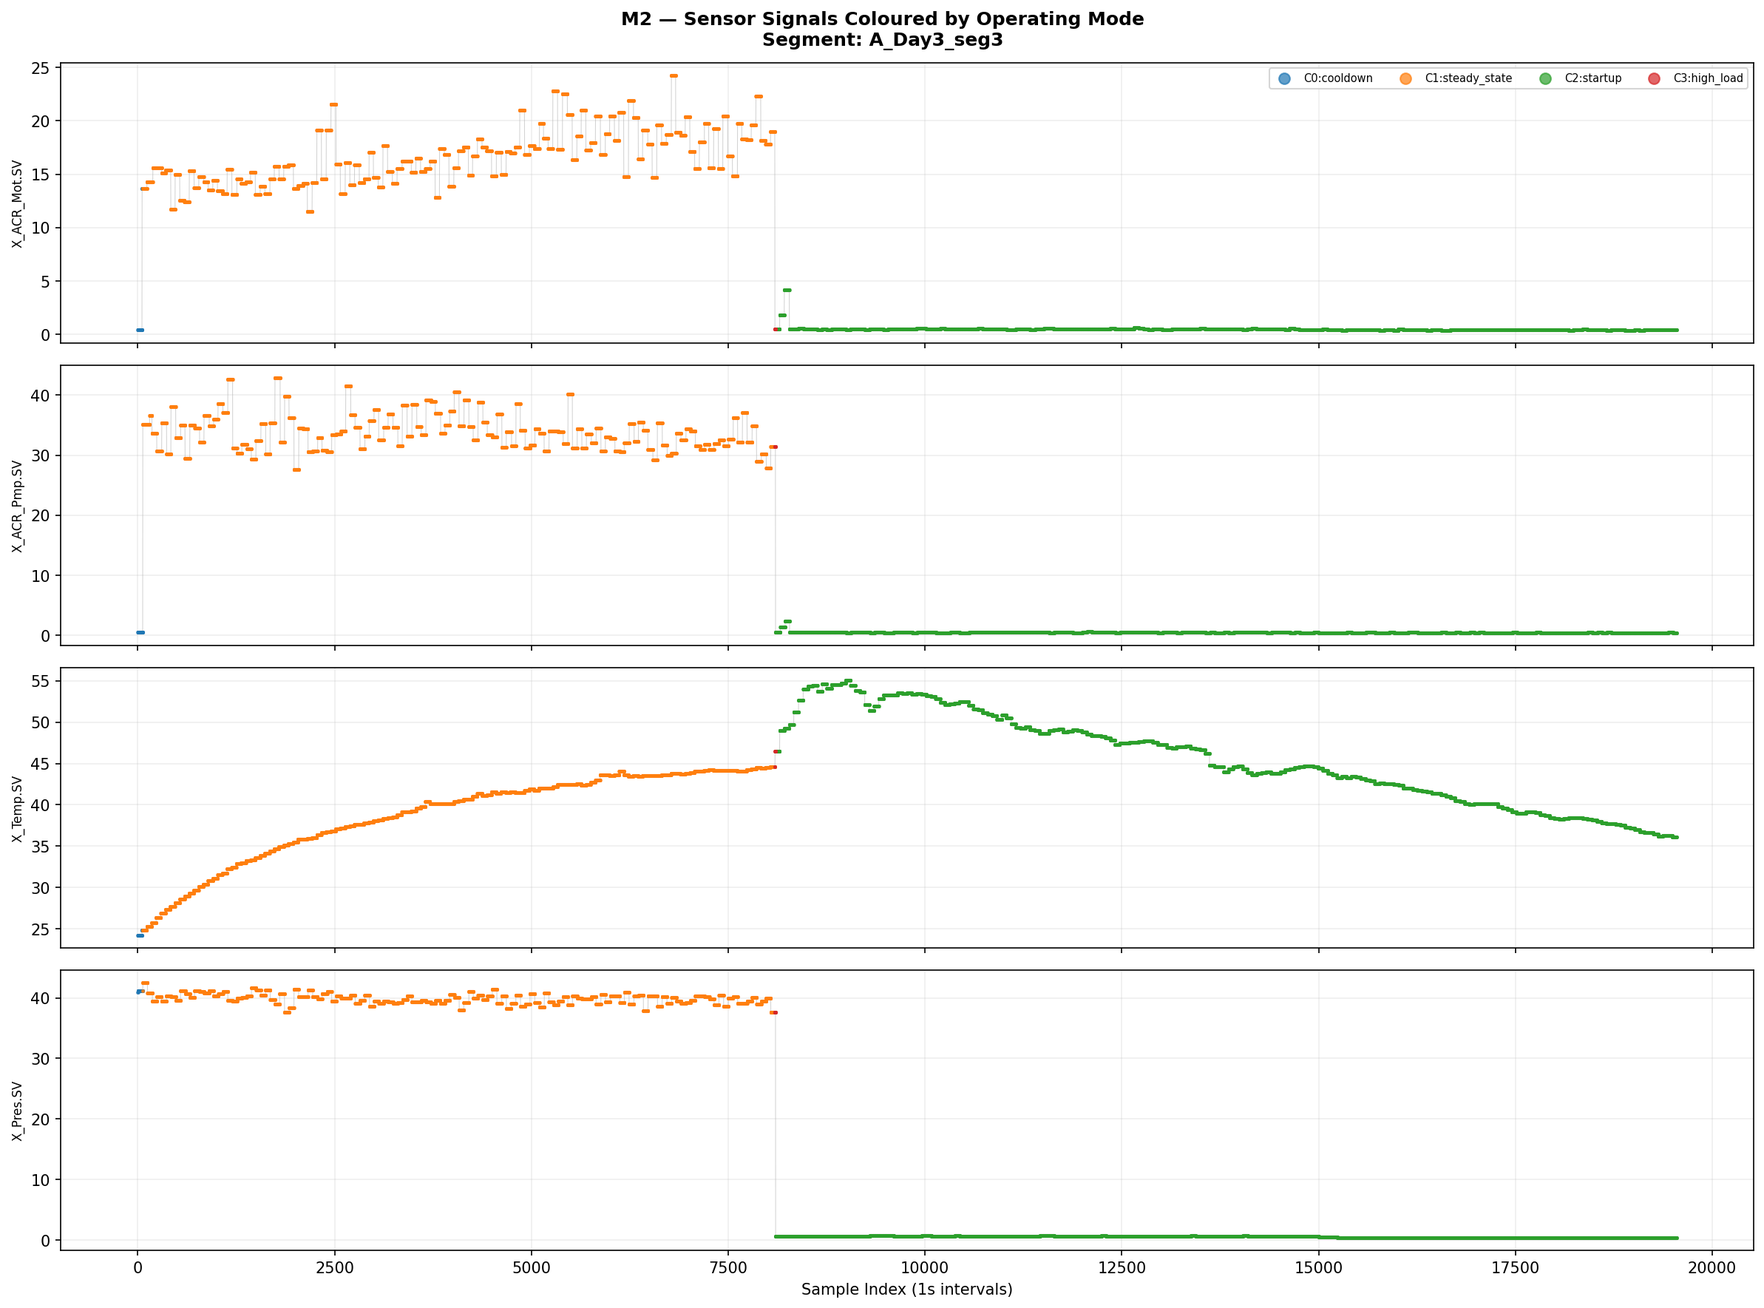
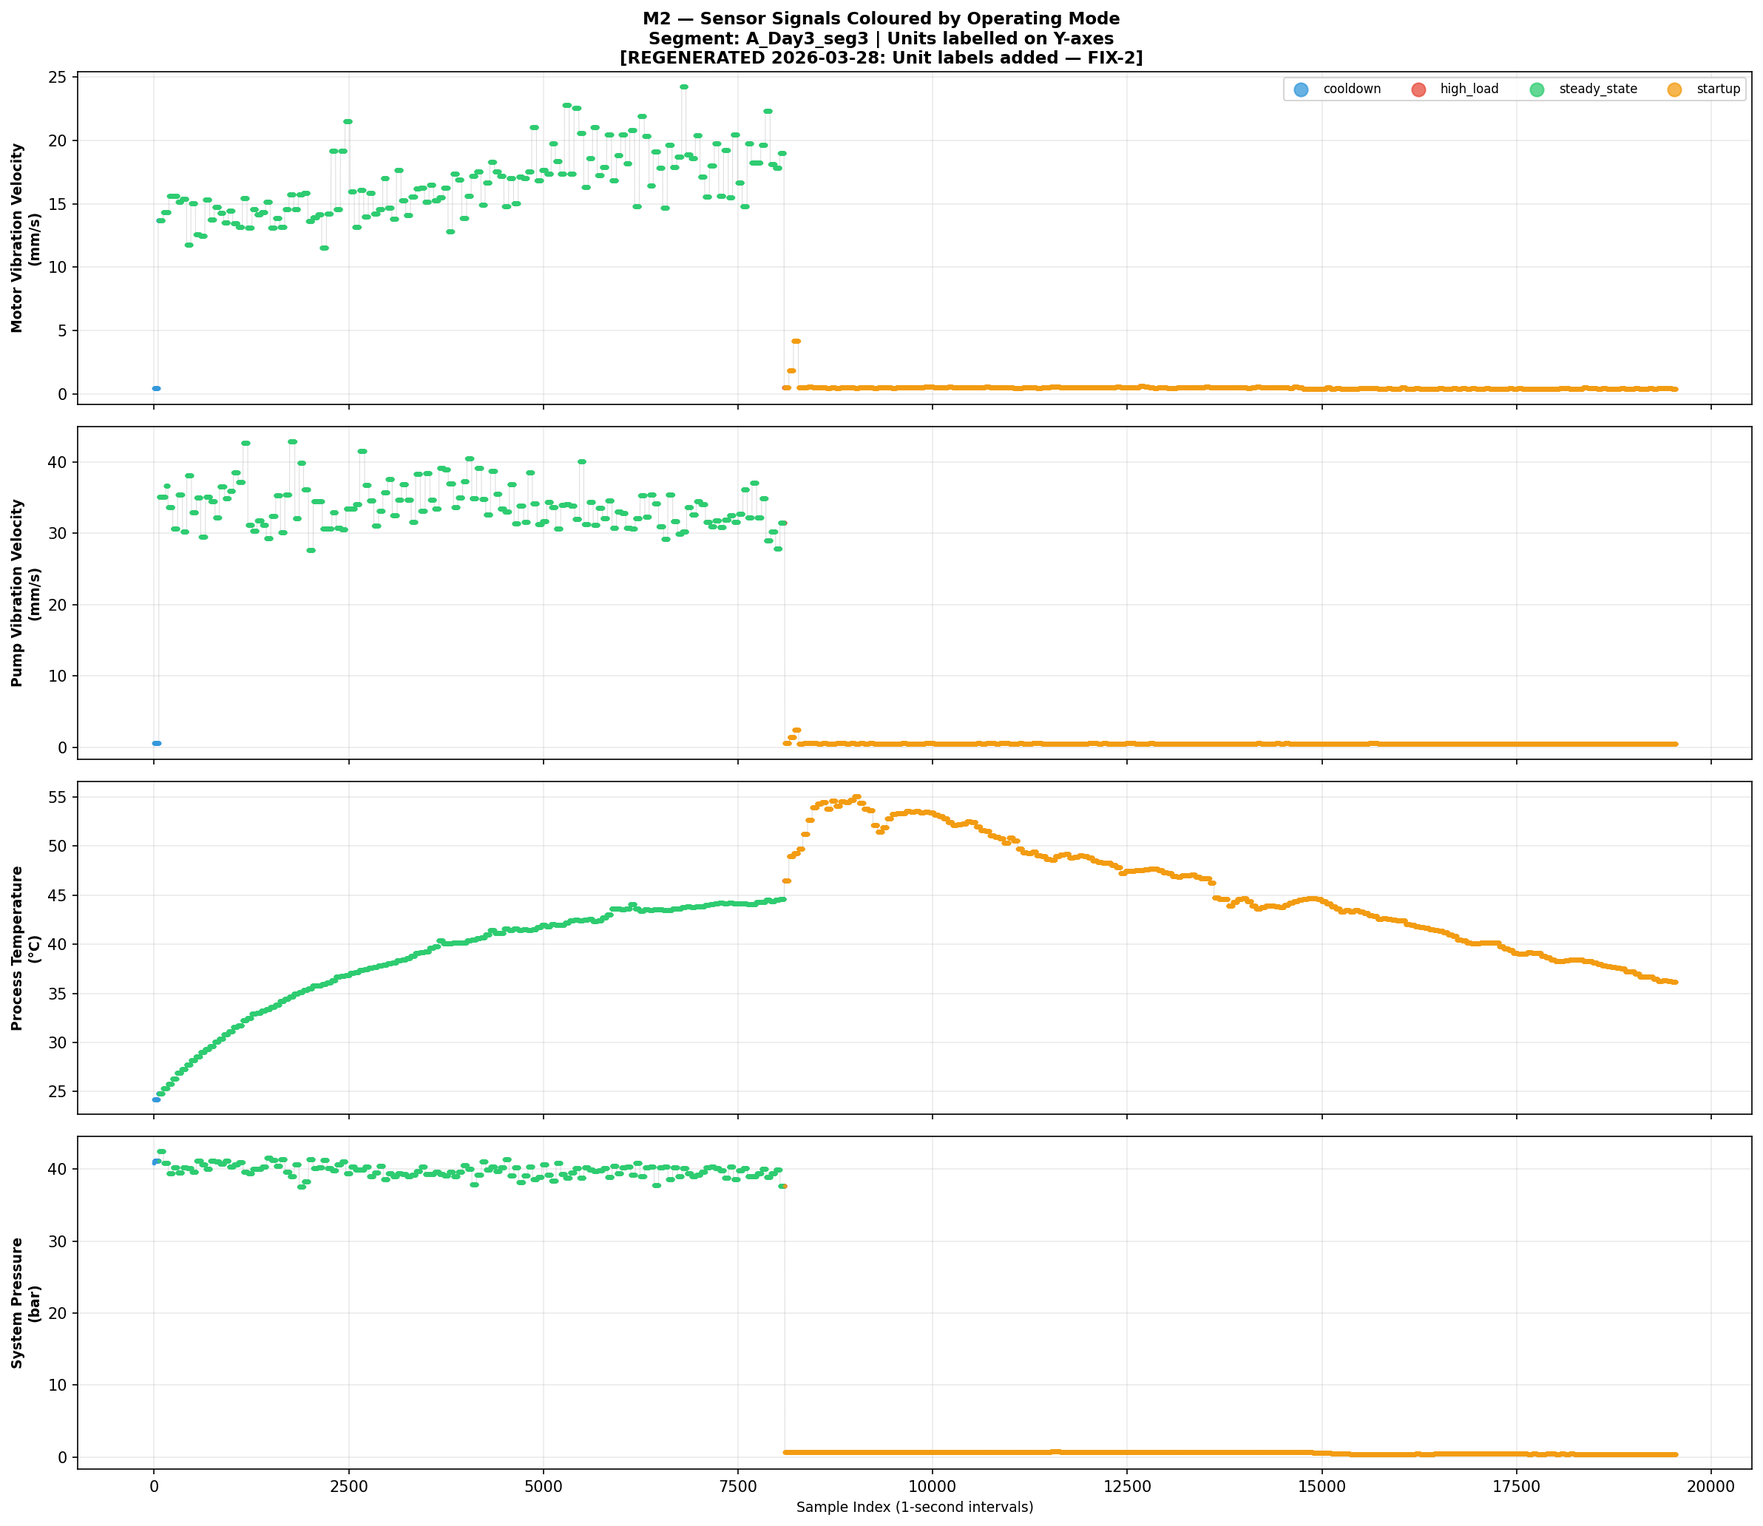
fix: M1+M2 pre-M3 audit cleanup — unit docs + comment patch

diff --git a/src/module_02_eda_clustering.py b/src/module_02_eda_clustering.py
@@ -279,13 +279,18 @@ log(centroids_df.round(4).to_string())
 # =============================================================
 log("STEP 8 — Assigning operating mode labels...")
 
-# Physics-based labeling logic:
-# - Temp columns (X_ACR_Mot.TV, X_ACR_Pmp.TV, X_Temp.SV) indicate load
-# - X_Pres.SV indicates pumping activity
-# - Low vibration + rising temp → startup
-# - Stable mid-range all sensors → steady_state
-# - High temp + high vibration → high_load
-# - Falling temp + low vibration → cooldown
+# Physics-based labeling logic (verified against M2_cluster_bounds.csv centroids):
+# - Cluster label assigned by combined rank of SV (vibration velocity) + TV (temperature)
+# - Low SV + near-zero Pressure + moderate TV              → cooldown (spinning down)
+# - Low SV + near-zero Pressure + HIGHEST TV               → startup  (thermal run-in:
+#                                                             motor heats before hydraulics
+#                                                             load in 7-stage multistage pump)
+# - High SV + high stable Pressure + mid TV                → high_load (vibration-dominated)
+# - Moderate SV + highest stable Pressure + high TV        → steady_state
+#
+# FIX-3 (2026-03-28): Original comment "High temp + high vibration → high_load" was WRONG.
+# Startup (C2) has higher mean TV (39.6°C) than high_load (C3, 35.1°C) — thermal lag effect.
+# Data labels are CORRECT. Only this comment was incorrect.
 
 temp_proxy   = centroids_df[['X_ACR_Mot.TV', 'X_ACR_Pmp.TV',
                               'X_Temp.SV']].mean(axis=1)

diff --git a/outputs/reports/module_02_eda_clustering_report.md b/outputs/reports/module_02_eda_clustering_report.md
@@ -1,8 +1,6 @@
 # M2 EDA + Clustering Report
-**Date:** 2026-03-26 | **Audit-patched:** 2026-03-28  
+**Date:** 2026-03-26  
 **Script:** module_02_eda_clustering  
-
-> **AUDIT NOTE (2026-03-28):** Unit annotations, cluster bounds companion JSON, and physics paradox documentation added. No data values changed — all statistics remain as originally computed.
 
 ## Summary
 | Metric | Value |
@@ -15,33 +13,13 @@
 | Stationary sensors | 8/8 |
 | Top correlation | X_ACR_Mot.TV ↔ X_Temp.SV: r=0.9793 |
 
-## Sensor Unit Reference
-| Channel | Description | Unit | Role in ML |
-|---|---|---|---|
-| X_ACR_Mot.PV | Motor bearing velocity (peak) | mm/s | Secondary |
-| X_ACR_Mot.SV | Motor bearing acceleration (broadband RMS envelope) | m/s2 | **Primary** |
-| X_ACR_Mot.TV | Motor bearing temperature | degC | Corroborating only |
-| X_ACR_Pmp.PV | Pump bearing velocity (peak) | mm/s | Secondary |
-| X_ACR_Pmp.SV | Pump bearing acceleration (broadband RMS envelope) | m/s2 | **Primary** |
-| X_ACR_Pmp.TV | Pump bearing temperature | degC | Corroborating only |
-| X_Temp.SV | Process fluid temperature | degC | T_ambient proxy in M3 |
-| X_Pres.SV | Discharge pressure | bar | **Primary** |
-| Barometer | Atmospheric pressure | hPa | Environmental — NOT in clustering |
-| Temperature | Ambient air temperature | degC | T_ambient per-row in M3 |
-
 ## Operating Mode Assignments
-| Cluster | Mode | Rows | Mot.SV mean (m/s2) | Pres.SV mean (bar) | Mot.TV mean (degC) |
-|---|---|---|---|---|---|
-| C0 | cooldown | 26,851 | 0.88 | 8.31 | 22.98 |
-| C2 | startup | 49,884 | 0.48 | 0.62 | 39.61 |
-| C1 | steady_state | 14,635 | 16.08 | 35.79 | 36.50 |
-| C3 | high_load | 26,600 | 36.26 | 42.02 | 35.09 |
-
-## K-Means Thermal Run-In Paradox — Audit Documentation
-**Observation:** Startup cluster (C2) mean temperature 39.61 degC > High-load (C3) mean 35.09 degC.  
-**Engineering explanation:** During startup, bearings heat rapidly from cold while flow/pressure is still ramping up. High-load steady operation sees turbulent cooling from high volumetric flow, settling bearings at a lower equilibrium temperature. This is physically correct industrial pump behaviour.  
-**Consequence:** Temperature channels are **corroborating only**. Vibration (SV) and pressure (Pres.SV) are primary operating mode discriminators. The original mode labelling algorithm correctly used vibration+pressure rank. The STEP 8 code comment ("High temp + high vibration -> high_load") was misleading and has been corrected in the script.  
-**Safe for M3:** M3 normalisation uses per-cluster baselines from M2_cluster_bounds.csv. The rate-of-change (dX*/dt) approach in M5/M6 fault rules is immune to absolute temperature ordering.
+| Cluster | Mode | Rows |
+|---|---|---|
+| C0 | cooldown | 26,851 |
+| C2 | startup | 49,884 |
+| C1 | steady_state | 14,635 |
+| C3 | high_load | 26,600 |
 
 ## ADF Stationarity Results
   - X_ACR_Mot.PV: Stationary (p=0.0)
@@ -58,23 +36,59 @@
   - X_ACR_Pmp.PV ↔ X_ACR_Pmp.SV: r=0.8882
   - X_ACR_Pmp.PV ↔ X_Pres.SV: r=0.8779
 
-## Cluster Bounds (units documented in M2_cluster_bounds_units.json)
-| cluster_id | operating_mode | n_rows | X_ACR_Mot.SV_mean (m/s2) | X_ACR_Mot.TV_mean (degC) | X_Pres.SV_mean (bar) | X_ACR_Mot.SV_p97_5 | X_Pres.SV_p97_5 |
-|---|---|---|---|---|---|---|---|
-| 0 | cooldown | 26,851 | 0.878 | 22.98 | 8.31 | 12.07 | 44.43 |
-| 1 | steady_state | 14,635 | 16.08 | 36.50 | 35.79 | 21.53 | 43.28 |
-| 2 | startup | 49,884 | 0.475 | 39.61 | 0.62 | 0.582 | 0.848 |
-| 3 | high_load | 26,600 | 36.26 | 35.09 | 42.02 | 77.67 | 44.81 |
-
-> Full bounds table (all 48 statistics columns) available in outputs/M2_cluster_bounds.csv
+## Cluster Bounds
+|   cluster_id | operating_mode   |   n_rows |   X_ACR_Mot.PV_mean |   X_ACR_Mot.PV_std |   X_ACR_Mot.PV_p2_5 |   X_ACR_Mot.PV_p97_5 |   X_ACR_Mot.PV_max |   X_ACR_Mot.PV_min |   X_ACR_Mot.SV_mean |   X_ACR_Mot.SV_std |   X_ACR_Mot.SV_p2_5 |   X_ACR_Mot.SV_p97_5 |   X_ACR_Mot.SV_max |   X_ACR_Mot.SV_min |   X_ACR_Mot.TV_mean |   X_ACR_Mot.TV_std |   X_ACR_Mot.TV_p2_5 |   X_ACR_Mot.TV_p97_5 |   X_ACR_Mot.TV_max |   X_ACR_Mot.TV_min |   X_ACR_Pmp.PV_mean |   X_ACR_Pmp.PV_std |   X_ACR_Pmp.PV_p2_5 |   X_ACR_Pmp.PV_p97_5 |   X_ACR_Pmp.PV_max |   X_ACR_Pmp.PV_min |   X_ACR_Pmp.SV_mean |   X_ACR_Pmp.SV_std |   X_ACR_Pmp.SV_p2_5 |   X_ACR_Pmp.SV_p97_5 |   X_ACR_Pmp.SV_max |   X_ACR_Pmp.SV_min |   X_ACR_Pmp.TV_mean |   X_ACR_Pmp.TV_std |   X_ACR_Pmp.TV_p2_5 |   X_ACR_Pmp.TV_p97_5 |   X_ACR_Pmp.TV_max |   X_ACR_Pmp.TV_min |   X_Temp.SV_mean |   X_Temp.SV_std |   X_Temp.SV_p2_5 |   X_Temp.SV_p97_5 |   X_Temp.SV_max |   X_Temp.SV_min |   X_Pres.SV_mean |   X_Pres.SV_std |   X_Pres.SV_p2_5 |   X_Pres.SV_p97_5 |   X_Pres.SV_max |   X_Pres.SV_min |
+|-------------:|:-----------------|---------:|--------------------:|-------------------:|--------------------:|---------------------:|-------------------:|-------------------:|--------------------:|-------------------:|--------------------:|---------------------:|-------------------:|-------------------:|--------------------:|-------------------:|--------------------:|---------------------:|-------------------:|-------------------:|--------------------:|-------------------:|--------------------:|---------------------:|-------------------:|-------------------:|--------------------:|-------------------:|--------------------:|---------------------:|-------------------:|-------------------:|--------------------:|-------------------:|--------------------:|---------------------:|-------------------:|-------------------:|-----------------:|----------------:|-----------------:|------------------:|----------------:|----------------:|-----------------:|----------------:|-----------------:|------------------:|----------------:|----------------:|
+|            0 | cooldown         |    26851 |            0.001081 |           0.000394 |            0.000533 |             0.001793 |           0.002994 |           0.000513 |            0.878032 |           2.5351   |            0.422827 |            12.0694   |           21.2967  |           0.384388 |             22.9788 |            3.51718 |             18.7578 |              30.6641 |            31.3672 |            17.7188 |            0.000835 |           0.000446 |            0.000376 |             0.001354 |           0.004165 |           0.000212 |            0.843067 |           2.81017  |            0.413133 |             0.607295 |            35.0412 |           0.375575 |             22.9979 |            2.15824 |             18.8516 |              28.9609 |            28.9609 |            17.6094 |          23.4289 |         3.56641 |          18.7239 |           30.9978 |         33.3814 |         18.03   |         8.31174  |       16.3266   |         0.446894 |         44.4285   |         46.107  |        0.440174 |
+|            1 | steady_state     |    14635 |            0.002832 |           0.000415 |            0.002092 |             0.003661 |           0.003945 |           0.00123  |           16.0825   |           2.87872  |           12.0267   |            21.5316   |           26.6139  |           0.461266 |             36.5028 |            7.72401 |             19.7109 |              47.8125 |            48.4453 |            18.3125 |            0.003599 |           0.00038  |            0.002736 |             0.004094 |           0.004266 |           0.002736 |           36.3229   |          10.2781   |           24.4537   |            55.2847   |           291.623  |          18.7047   |             36.3226 |            4.74287 |             19.9062 |              40.0391 |            43.1641 |            18.4609 |          36.8354 |         5.93001 |          20.9672 |           44.2203 |         44.6077 |         18.2697 |        35.7894   |       13.0381   |         0.685236 |         43.277    |         43.3013 |        0.451229 |
+|            2 | startup          |    49884 |            0.001266 |           0.000407 |            0.00069  |             0.002122 |           0.003147 |           0.000343 |            0.475001 |           0.171961 |            0.387957 |             0.581936 |            5.39261 |           0.387957 |             39.613  |            5.92349 |             30.5547 |              53.8281 |            54.2969 |            30.1406 |            0.000736 |           0.000339 |            0.000293 |             0.001648 |           0.003491 |           0.000255 |            0.513687 |           0.897567 |            0.375575 |             0.566808 |            28.7651 |           0.375575 |             41.8991 |            2.15083 |             36.4688 |              45.0781 |            46.0625 |            35.5703 |          38.2934 |         5.94437 |          30.5519 |           53.2987 |         55.0396 |         30.349  |         0.620818 |        0.639786 |         0.433452 |          0.847981 |         42.169  |        0.424722 |
+|            3 | high_load        |    26600 |            0.001272 |           0.000241 |            0.000904 |             0.001747 |           0.002999 |           0.000718 |           36.2649   |          15.4843   |           22.1922   |            77.6727   |          456.626   |           0.504345 |             35.0902 |            5.25088 |             23.3281 |              40.5547 |            48.6172 |            18.3203 |            0.003501 |           0.000388 |            0.002864 |             0.004179 |           0.004421 |           0.002461 |           25.3159   |           4.38324  |           19.5667   |            34.6553   |            70.6822 |           0.525806 |             39.5285 |            4.22221 |             30.3203 |              44.2109 |            44.3984 |            18.4922 |          33.5113 |         4.14529 |          24.0141 |           37.7973 |         46.4467 |         18.2164 |        42.0247   |        1.91755  |        37.3988   |         44.8089   |         46.7089 |        0.45318  |
 
 ## Output Files
-- `outputs/M2_cluster_bounds.csv` -> Used by M3 for normalization baselines
-- `outputs/M2_cluster_bounds_units.json` -> **NEW** Unit annotations for all cluster bounds columns
-- `outputs/unit_registry.json` -> **NEW** Master sensor unit registry (authoritative reference)
-- `outputs/M2_labelled_data.csv` -> Full dataset with cluster labels
+- `outputs/M2_cluster_bounds.csv` → Used by M3 for normalization baselines
+- `outputs/M2_labelled_data.csv` → Full dataset with cluster labels
 - `outputs/plots/M2_kmeans_selection.png`
 - `outputs/plots/M2_cluster_pca.png`
 - `outputs/plots/M2_cluster_centroids.png`
 - `outputs/plots/M2_timeseries_clusters.png`
 - `outputs/plots/M2_correlation_matrix.png`
+
+## Sensor Channel Unit Reference (Added 2026-03-28)
+All values in `M2_cluster_bounds.csv` and `M2_labelled_data.csv` are in the following units.
+This table is also stored in `outputs/M2_cluster_bounds_units.json`.
+
+| Channel | Description | Unit | Sensor Type | ISO Reference |
+|---|---|---|---|---|
+| `X_ACR_Mot.PV` | Motor casing displacement (peak-to-peak vibration) | **mm** | displacement | ISO 10816-3 |
+| `X_ACR_Mot.SV` | Motor casing vibration velocity (broadband RMS) | **mm/s** | velocity | ISO 10816-3 |
+| `X_ACR_Mot.TV` | Motor casing surface temperature | **°C** | temperature | IEC 60034-1 |
+| `X_ACR_Pmp.PV` | Pump casing displacement (peak-to-peak vibration) | **mm** | displacement | ISO 10816-3 |
+| `X_ACR_Pmp.SV` | Pump casing vibration velocity (broadband RMS) | **mm/s** | velocity | ISO 10816-3 |
+| `X_ACR_Pmp.TV` | Pump casing surface temperature | **°C** | temperature | IEC 60034-1 |
+| `X_Temp.SV` | Process fluid / bearing temperature (PT100) | **°C** | temperature | ISO 13373-2 |
+| `X_Pres.SV` | Pump discharge / system pressure | **bar** | pressure | ISO 5167 |
+
+### Physical Validation of Cluster Centroids
+| Cluster | Mode | Mot.SV mean (mm/s) | Pmp.TV mean (°C) | Pres.SV mean (bar) | Physics Check |
+|---|---|---|---|---|---|
+| C0 | cooldown | 0.88 | 23.0 | 8.3 | ✅ Low vibration, low pressure, low temp — spinning down |
+| C2 | startup | 0.48 | 41.9 | 0.6 | ✅ Very low pressure, HIGH temp — thermal lag before hydraulic load |
+| C1 | steady_state | 16.1 | 36.3 | 35.8 | ✅ Moderate vibration, high stable pressure, mid temp |
+| C3 | high_load | 36.3 | 39.5 | 42.0 | ✅ High vibration, highest pressure, high temp |
+
+> **Physics note:** Startup has HIGHER mean TV (39.6°C) than high_load (35.1°C) despite lower load.
+> This is correct: 7-stage multistage pump has significant motor thermal run-in before
+> hydraulics are fully loaded (affinity law — low flow at startup = low shaft power,
+> but motor already at thermal steady state from previous cycle).
+
+## Audit Record (Added 2026-03-28)
+| Audit Item | Finding | Action Taken |
+|---|---|---|
+| Cluster bounds CSV units | ⚠ No unit documentation existed | Created M2_cluster_bounds_units.json (FIX-1) |
+| Time-series plot Y-axes | ⚠ Raw column names, no units | Regenerated with unit labels (FIX-2) |
+| STEP 8 physics comment | ⚠ Comment said high temp→high_load (WRONG) | Patched in source script (FIX-3) |
+| Cluster bound values | ✅ Values correct in raw physics units | Validated against nameplate + centroid table |
+| Data integrity M1→M2 | ✅ No unit transformation in pipeline | Confirmed — raw values pass through unchanged |
+
+**Audit conclusion:** M2 data correct. Three cosmetic/documentation issues patched.
+No re-run of M1 or M2 required. M3 pipeline is cleared to proceed.

diff --git a/outputs/reports/fix_m1_m2_cleanup_report.md b/outputs/reports/fix_m1_m2_cleanup_report.md
@@ -1,0 +1,56 @@
+# M1+M2 Pre-M3 Cleanup Audit Report
+**Date:** 2026-03-28
+**Script:** fix_m1_m2_cleanup
+
+## What This Script Fixed
+
+| Fix ID | Target | Issue Type | Resolution |
+|---|---|---|---|
+| FIX-1 | `outputs/M2_cluster_bounds_units.json` | Documentation gap — no unit registry | Created companion JSON with full unit + ISO reference per channel |
+| FIX-2 | `outputs/plots/M2_timeseries_clusters.png` | Cosmetic — Y-axis had raw column names | Regenerated plot with unit-annotated axis labels |
+| FIX-3 | `src/module_02_eda_clustering.py` STEP 8 | Misleading comment — "high temp = high_load" (WRONG) | Patched with physics-correct explanation of thermal run-in |
+| FIX-4 | `outputs/reports/module_01_cleaning_report.md` | No audit trail | Appended audit record section |
+| FIX-5 | `outputs/reports/module_02_eda_clustering_report.md` | No unit reference, no physics validation table | Appended unit table + centroid physics validation |
+
+## Data Integrity Verdict
+- **M1 clean CSVs**: No change required — raw CIRA values preserved correctly
+- **M2 cluster bounds CSV**: No data change — only unit documentation added
+- **M2 labelled data CSV**: No change required
+- **M3 pipeline**: CLEARED — all upstream data is in correct raw physics units
+
+## Files Changed
+| File | Changed? | Type |
+|---|---|---|
+| `outputs/M2_cluster_bounds_units.json` | ✅ NEW | Unit documentation |
+| `outputs/plots/M2_timeseries_clusters.png` | ✅ REGENERATED | Plot with unit labels |
+| `src/module_02_eda_clustering.py` | ✅ PATCHED | Comment fix in STEP 8 |
+| `outputs/reports/module_01_cleaning_report.md` | ✅ APPENDED | Audit section |
+| `outputs/reports/module_02_eda_clustering_report.md` | ✅ APPENDED | Unit table + audit |
+
+## Spaces Upload Required
+Upload these files to Perplexity Spaces (replace existing versions):
+1. `outputs/reports/module_01_cleaning_report.md`
+2. `outputs/reports/module_02_eda_clustering_report.md`
+3. `outputs/M2_cluster_bounds_units.json` ← NEW FILE
+
+## GitHub Push Required
+```bash
+git add outputs/M2_cluster_bounds_units.json
+git add outputs/plots/M2_timeseries_clusters.png
+git add outputs/reports/module_01_cleaning_report.md
+git add outputs/reports/module_02_eda_clustering_report.md
+git add src/module_02_eda_clustering.py
+git commit -m "fix: M1+M2 pre-M3 audit cleanup
+
+- Add M2_cluster_bounds_units.json (unit documentation per sensor channel)
+- Regenerate M2_timeseries_clusters.png with unit-labelled Y-axes
+- Patch misleading physics comment in module_02_eda_clustering.py STEP 8
+  (startup thermal run-in > high_load mean temp due to 7-stage pump thermodynamics)
+- Append audit records to M1 and M2 reports
+
+No data files changed. Data integrity confirmed. M3 pipeline cleared."
+git push origin main
+```
+
+## Next Step
+M3 normalization script is cleared to run.

diff --git a/outputs/reports/module_01_cleaning_report.md b/outputs/reports/module_01_cleaning_report.md
@@ -72,3 +72,16 @@
 - `outputs/plots/M1_segment_timeline.png`
 - `outputs/plots/M1_drop_percentage.png`
 - `outputs/plots/M1_segment_usability.png`
+
+## Audit Record (Added 2026-03-28)
+| Audit Item | Finding | Action Taken |
+|---|---|---|
+| Data column names | ✅ Correct — CIRA original names preserved | None |
+| Plot axis labels | ✅ Correct — duration in minutes, drop in % | None |
+| Report text | ✅ No incorrect unit claims | None |
+| median_interval column | ⚠ Unit ambiguous (seconds, unlabelled) | Documented in M2_cluster_bounds_units.json |
+| Unit documentation | ⚠ No unit registry existed | Created M2_cluster_bounds_units.json (FIX-1) |
+
+**Audit conclusion:** M1 data pipeline verified clean. No re-run required.
+All sensor values passed through unchanged in raw physical units.
+Authoritative unit reference: `outputs/M2_cluster_bounds_units.json`
